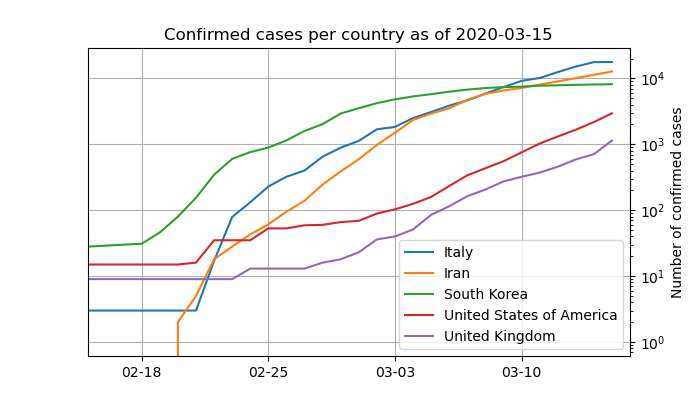
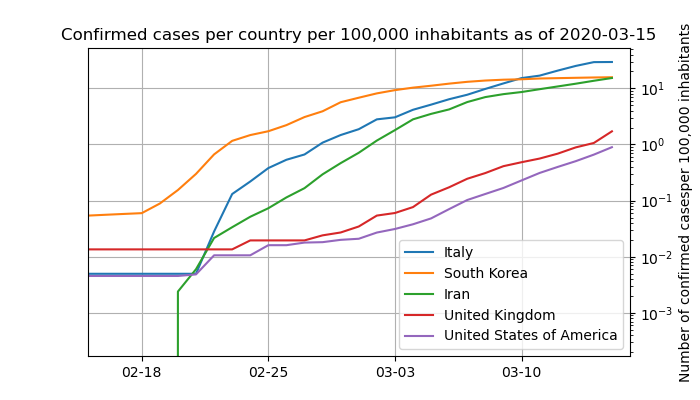
Support diagrams per Capita

Changed region(s): [[0.12, 0.06, 0.99, 0.96], [0.09, 0.06, 0.93, 0.12], [0.63, 0.66, 0.75, 0.75]]

diff --git a/make_plots.py b/make_plots.py
@@ -1,9 +1,9 @@
 import os
-os.system('python covid19plot.py -log -dark -deaths -out special_1_deaths US UK IR KR IT')
-os.system('python covid19plot.py -log -dark -out special_1_count US UK IR KR IT')
+os.system('python covid19plot.py -perCapita -log -dark -deaths -out special_1_deaths US UK IR KR IT')
+os.system('python covid19plot.py -perCapita -log -dark -out special_1_count US UK IR KR IT')
 
-os.system('python covid19plot.py -log -dark -deaths -out middle_europe_deaths FR DE AT IT')
-os.system('python covid19plot.py -log -dark -out middle_europe_count FR DE AT IT')
+os.system('python covid19plot.py -perCapita -log -dark -deaths -out middle_europe_deaths FR DE AT IT')
+os.system('python covid19plot.py -perCapita -log -dark -out middle_europe_count FR DE AT IT')
 
-os.system('python covid19plot.py -log -dark -deaths -out north_europe_deaths SE NO DK')
-os.system('python covid19plot.py -log -dark -out north_europe_count SE NO DK')
+os.system('python covid19plot.py -perCapita -log -dark -deaths -out north_europe_deaths SE NO DK')
+os.system('python covid19plot.py -perCapita -log -dark -out north_europe_count SE NO DK')

diff --git a/covid19plot.py b/covid19plot.py
@@ -38,7 +38,6 @@ for arg in arguments:
         format = "xxx"
     elif ( arg == "-perCapita" ):
         perCapita = "X"
-        print('per Capita')
     else:
         if filename == "xxx":
             filename = arg
@@ -136,11 +135,14 @@ if log == "X":
 end_date = data[regions[0]]["dates"][-1].date()
 end_date_plot = end_date + timedelta(days=1)
 plt.legend(legendText)
-if perCapita == "X":
+if perCapita == "":
     plt.ylabel("Number of confirmed " + column_text)
 else:
     plt.ylabel("Number of confirmed " + column_text + "per 100,000 inhabitants" )
-plt.title("Confirmed " + column_text + " per country as of " + str(end_date))
+if perCapita == "":
+    plt.title("Confirmed " + column_text + " per country as of " + str(end_date))
+else:
+    plt.title("Confirmed " + column_text + " per country per 100,000 inhabitants as of " + str(end_date))
 ax.set_xlim([datetime(2020, 2, 15),end_date_plot]) #Rainer Winkler
 plt.grid() #Rainer Winkler
 if filename != "" :
